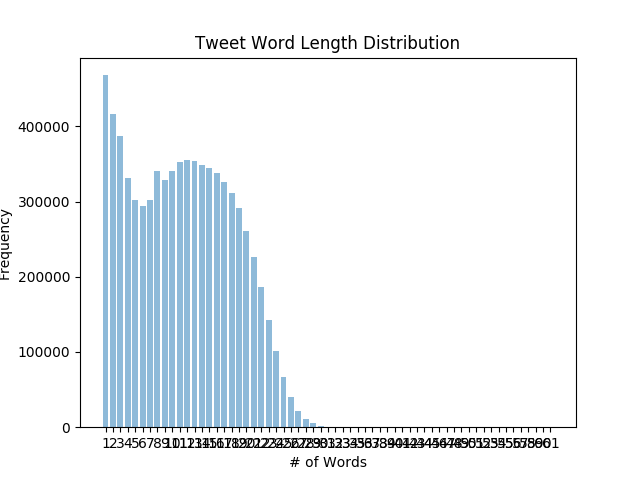
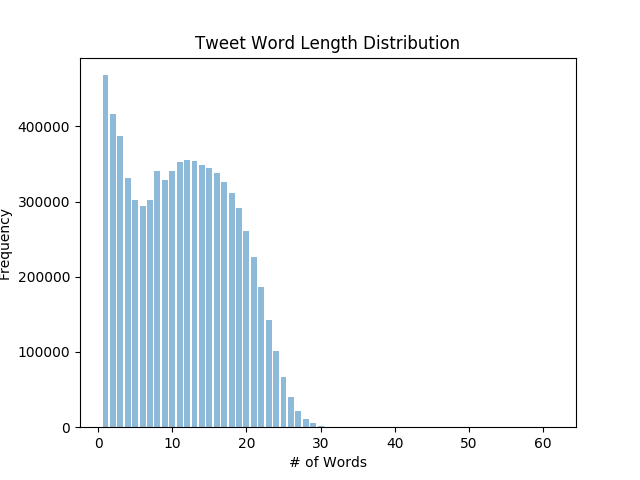
updated word distribution

Changed region(s): [[0.1562, 0.9062, 0.875, 0.9375]]

diff --git a/data_utils/tweet_processing.py b/data_utils/tweet_processing.py
@@ -5,6 +5,7 @@ import csv
 import html
 import matplotlib.pyplot as plt
 import nltk
+from nltk.corpus import stopwords
 from nltk.tokenize import word_tokenize
 import numpy as np
 import string
@@ -15,7 +16,7 @@ SAMPLING_RATE = 0.01
 SEED = 325
 
 keys = ["id", "tweet", "postedTime", "actorLoc", "locName", "locGeoType", "areakm2", "lng", "lat"]
-keywords = set(['lentils', 'oil', 'soybean', 'soybeans', 'moong', 'wheat', 'salt', 'masur', 'flour', 'milk', 'pasteurized', 'sugar', 'palm', 'sunflower', 'jaggery', 'gur', 'tea', 'urad','potato', 'potatoes', 'ghee', 'vanaspati', 'mustard', 'rice', 'onion', 'onions', 'tomato', 'tomatoes', 'groundnut', 'groundnuts'])
+keywords = set(['lentils', 'oil', 'soybean', 'soybeans', 'moong', 'wheat', 'salt', 'masur', 'flour', 'milk', 'pasteurized', 'sugar', 'palm', 'sunflower', 'jaggery', 'gur', 'tea', 'urad','potato', 'potatoes', 'ghee', 'vanaspati', 'mustard', 'rice', 'onion', 'onions', 'tomato', 'tomatoes', 'groundnut', 'groundnuts', 'price', 'sell', 'sells', 'sold', 'buy', 'buys', 'bought'])
 
 def create_files():
     np.random.seed(SEED)
@@ -74,7 +75,6 @@ def tweet_length_distribution(tweetWordLen):
         wordLenX.append(i)
         wordLenY.append(tweetWordLen[i] if i in tweetWordLen else 0)
     plt.bar(wordLenX, wordLenY, align='center', alpha=0.5)
-    plt.xticks(wordLenX, wordLenX)
     plt.xlabel('# of Words')
     plt.ylabel('Frequency')
     plt.title('Tweet Word Length Distribution')
@@ -92,19 +92,17 @@ def word_distribution(wordCnt):
 def parse_files():
     tweetWordLen = collections.defaultdict(int)
     wordCnt = collections.defaultdict(int)
+    stop_words = set(stopwords.words('english'))
     with open("sampled_tweets.csv") as csvfile:
         reader = csv.DictReader(csvfile)
         for row in reader:
             tokens = word_tokenize(html.unescape(row["tweet"]))
             tokens = [w.lower() for w in tokens]
             words = [word for word in tokens if word.isalpha()]
-            #from nltk.corpus import stopwords
-            #stop_words = set(stopwords.words('english'))
-            #words = [w for w in words if not w in stop_words]
             tweetWordLen[len(words)] += 1
             for word in words:
-                wordCnt[word] += 1
-    print("finished parsing tweets")
+                if word not in stop_words:
+                    wordCnt[word] += 1
     tweet_length_distribution(tweetWordLen)
     word_distribution(wordCnt)
     
